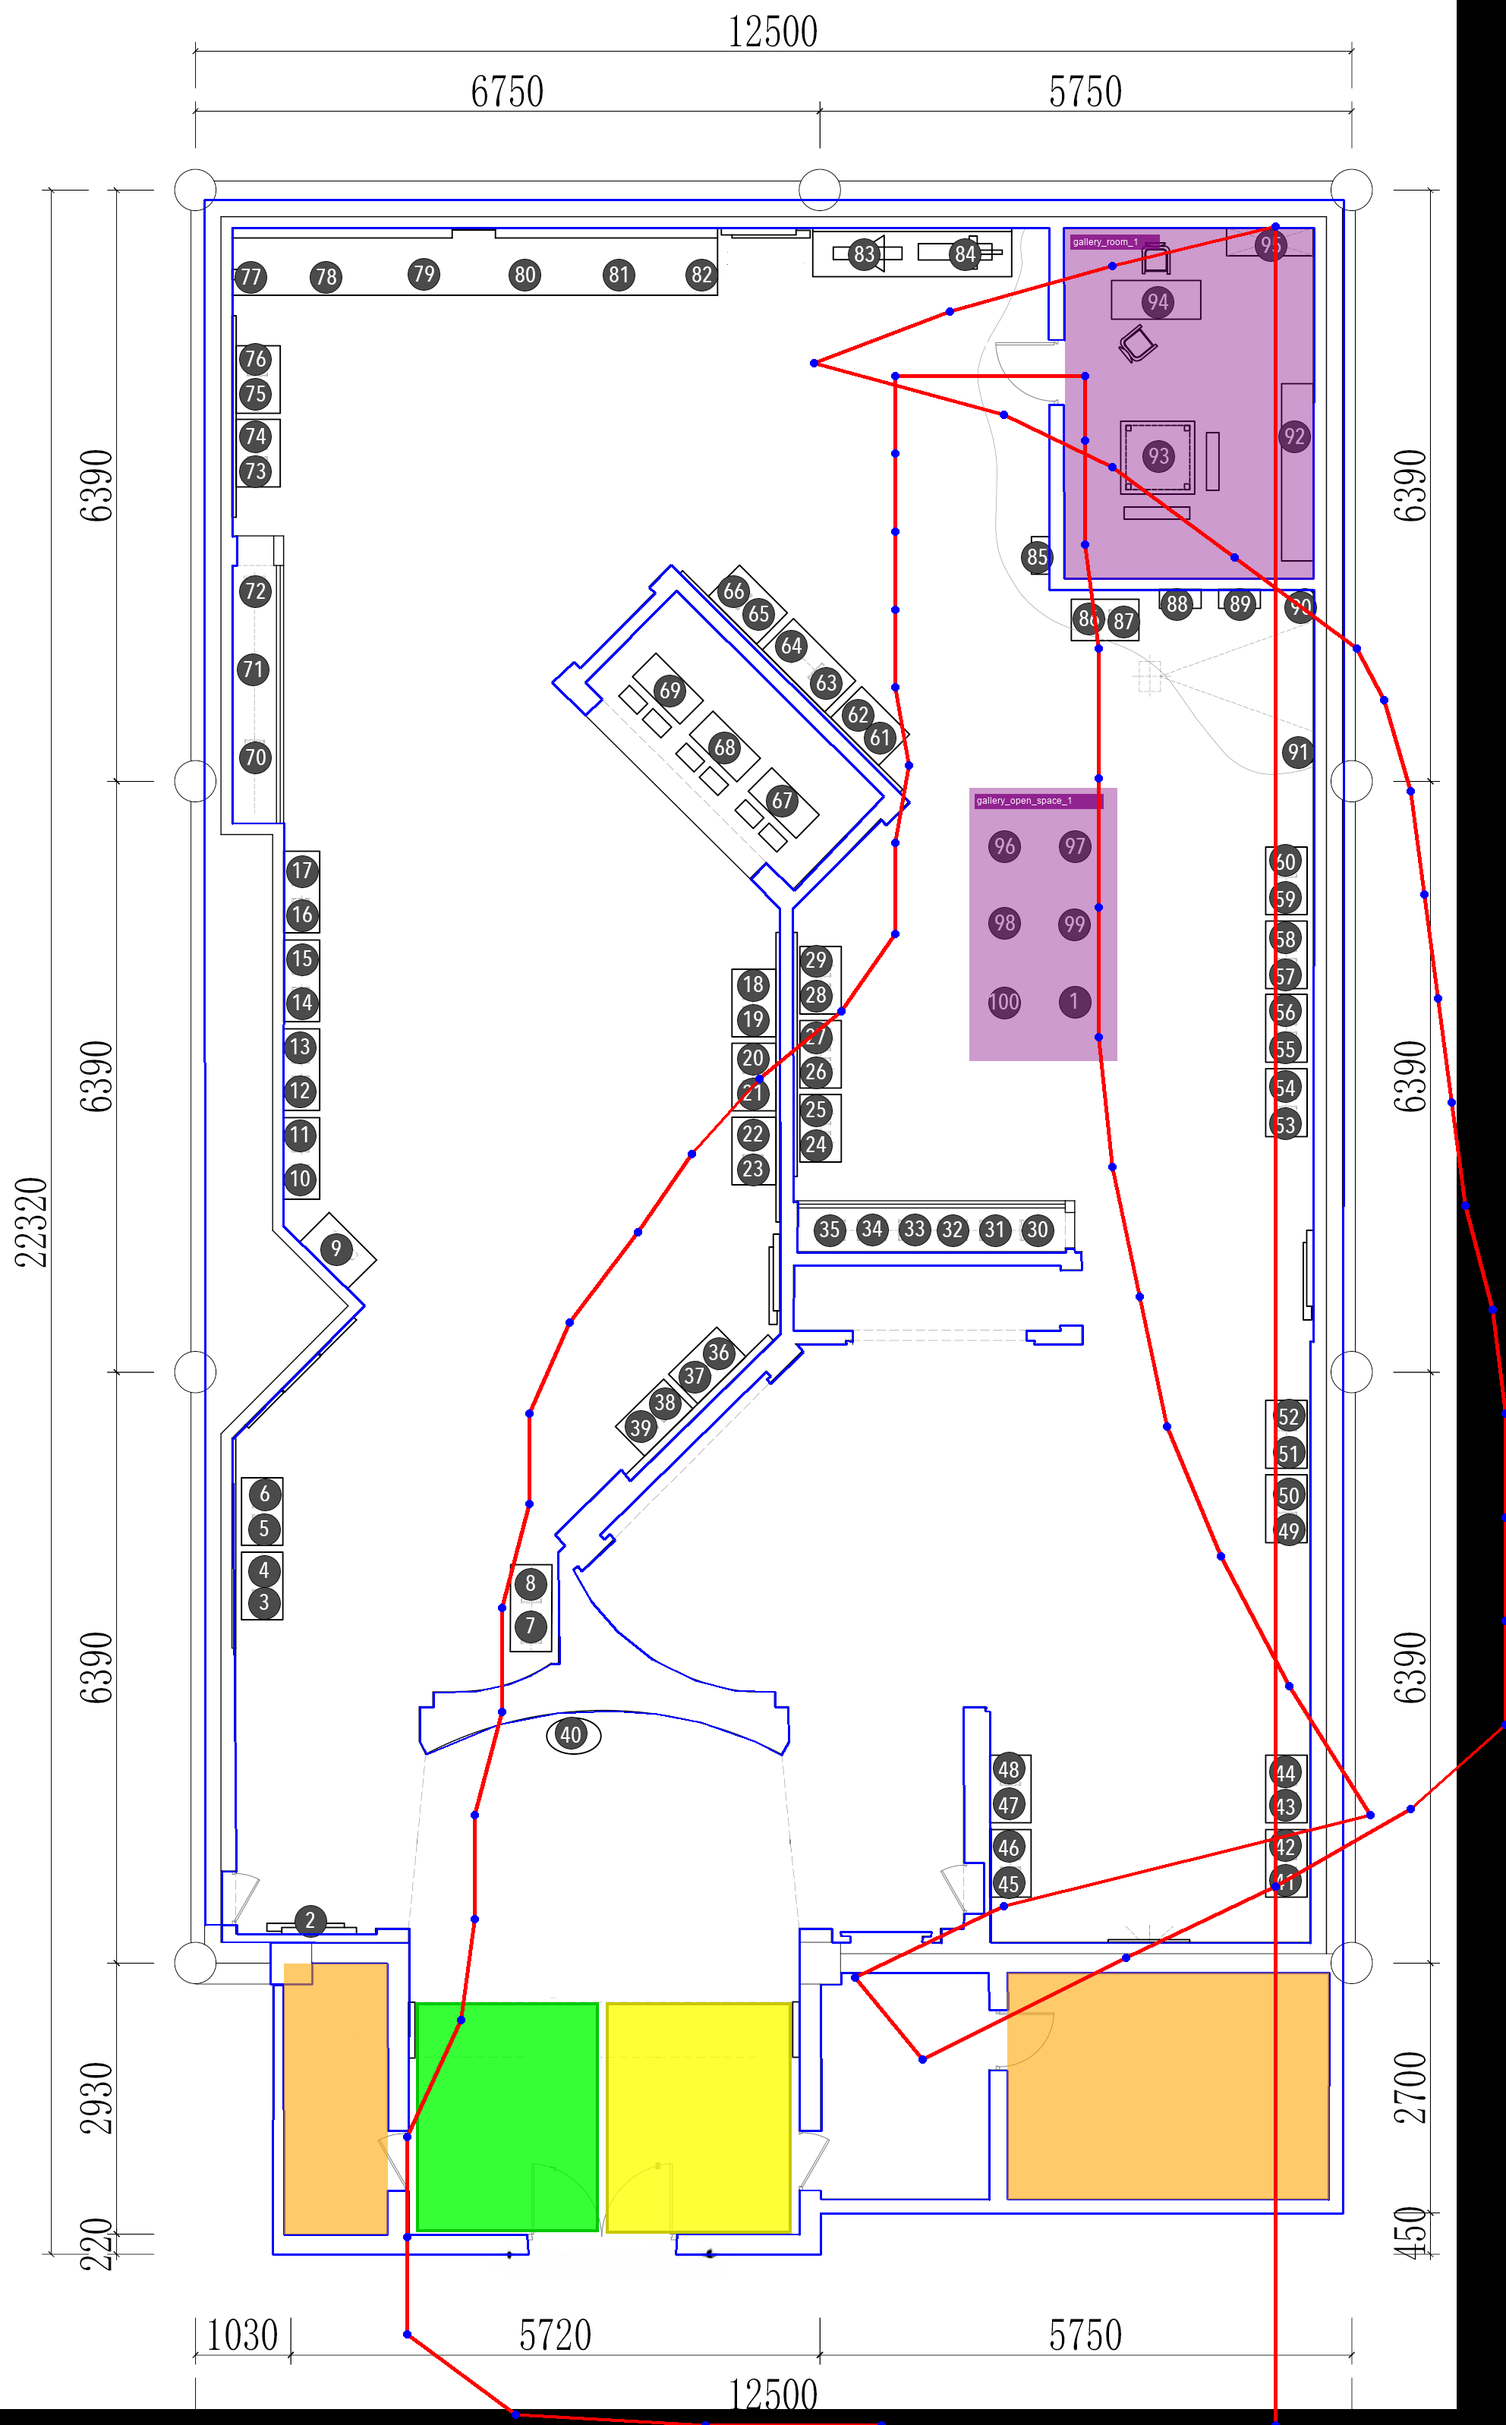
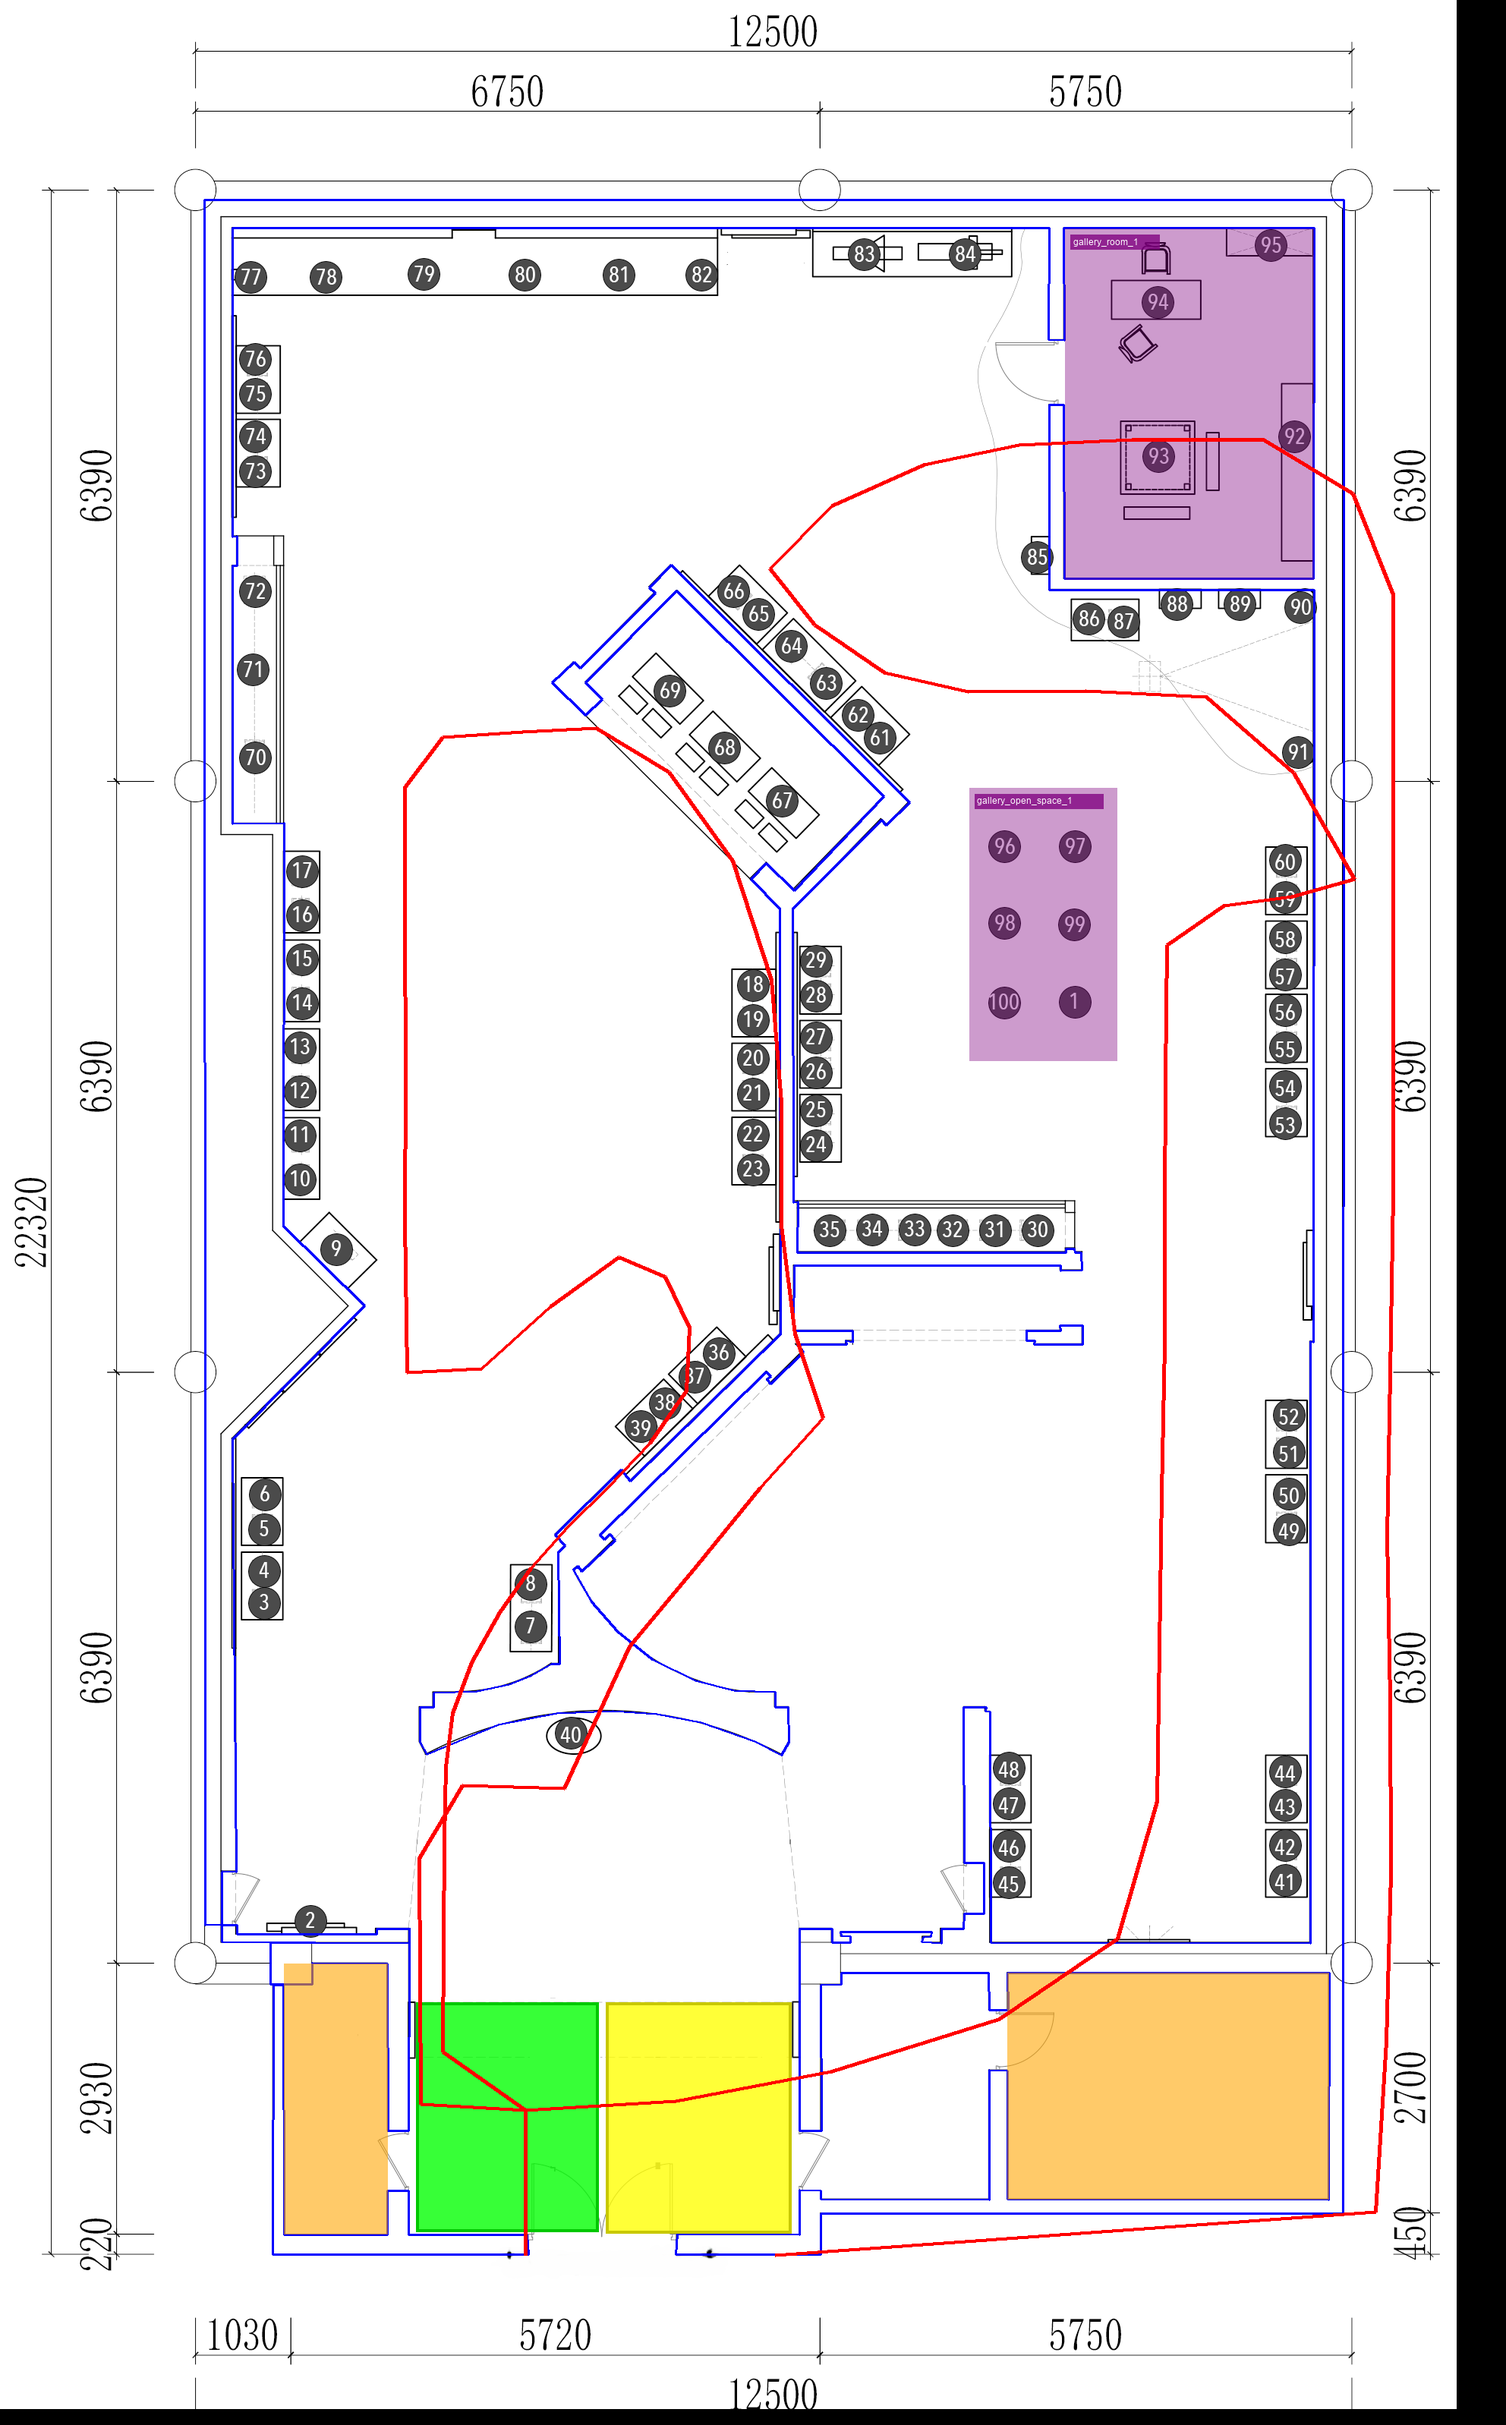
Prompt update

diff --git a/gpt_2_steps.py b/gpt_2_steps.py
@@ -21,7 +21,7 @@ with open(exhibits_json_path, "r", encoding="utf-8") as f:
 
 # -------- Image info --------
 image = Image.open(input_image_path)
-img_w, img_h = image.size
+img_width, img_height = image.size
 
 # Read image as base64
 with open(input_image_path, "rb") as f:
@@ -31,14 +31,22 @@ with open(input_image_path, "rb") as f:
 user_preference = "I only want to visit Roman Exhibits"
 
 # Build prompt for selecting exhibits
-system_prompt_selection = "You are a museum assistant. Choose exhibits matching the user preference from the list."
+system_prompt_selection = f"""
+    You are a museum assistant AI. Your task is to select which exhibits a visitor should see based on their preferences.
+
+        Here is the list of all exhibits in JSON format:
+        { exhibits_json }
+
+        Rules:
+        1. Only select exhibits that match the user preference.
+        2. Output ONLY a JSON array of exhibit_number.
+        3. Do not include any text, commentary, or formatting outside the JSON array.
+        4. The array should be a valid JSON list of integers, for example: [2, 5, 7]
+
+        Provide your response strictly in the format above.
+    """
 user_prompt_selection = f"""
 Select exhibits based on this user preference: {user_preference}
-
-Here is the exhibit data (JSON):
-{json.dumps(exhibits_json)}
-
-Output ONLY a JSON array of exhibit IDs that should be visited.
 """
 
 response_selection = client.responses.create(
@@ -67,11 +75,67 @@ print("Selected exhibit IDs:", selected_ids)
 filtered_exhibits = [e for e in exhibits_json if e["exhibit_number"] in selected_ids]
 
 # -------- STEP 2: Route Planning --------
-system_prompt_route = build_system_prompt(183, img_w, img_h)  # Same system prompt as before
-user_prompt_route = build_user_prompt(
-    f"Plan a path visiting ONLY these exhibits: {selected_ids}",
-    filtered_exhibits
-)
+system_prompt_route = f"""
+        You are a museum path planning assistant.
+
+        Your task is to generate an optimal navigation path through a museum layout image.
+
+        You MUST strictly follow all constraints.
+
+        ---
+
+        ### Spatial Constraints (MANDATORY)
+        - Do NOT pass through walls or restricted areas.
+        - Do NOT exit the museum boundaries except at the designated exit.
+        - Do NOT collide with exhibits (treat exhibits as obstacles unless visiting).
+        - Path must be continuous and physically plausible.
+        - Start inside the entrance (green bounding box).
+        - End inside the exit (yellow bounding box).
+
+        Key Notes:
+        - BLUE outlines repesent the walls.
+        - ORANGE bounding box represents restricted area.
+        - PURPLE boundig box represents gallary area.
+
+        ---
+
+        You MUST:
+        - Ignore all irrelevant exhibits.
+        - Visit only selected exhibits.
+
+        ---
+
+        ### Visit Definition
+        - A visit is valid if the path comes within { 183 } pixels of the exhibit's approx_location.
+
+        ---
+
+        ### Path Rules
+        - Optimize for shortest valid path.
+        - Avoid unnecessary detours.
+        - Visit exhibits in an efficient order.
+        - Strictly follow Spatial Constraints
+
+        ---
+
+        ### Coordinate Constraints (CRITICAL)
+        - Image width: { img_width } pixels
+        - Image height: { img_height } pixels
+        - ALL coordinates MUST satisfy:
+        - 0 ≤ x < { img_width }
+        - 0 ≤ y < { img_height }
+
+        ### Output Format (STRICT)
+        - Output ONLY a JSON array of (x, y) coordinates representing the path.
+        - Coordinates must be integers in pixel space.
+        - No explanations, no comments, no extra text.
+
+        Example:
+        [[10, 20], [30, 40], [50, 80]]
+    """
+user_prompt_route = f"""
+    Plan a path visiting ONLY these exhibits: {filtered_exhibits}"
+"""
 
 response_route = client.responses.create(
     model="gpt-5.4",
@@ -101,18 +165,15 @@ except json.JSONDecodeError:
 max_x = max(p[0] for p in route)
 max_y = max(p[1] for p in route)
 
-scale_x = img_w / max_x
-scale_y = img_h / max_y
+scale_x = img_width / max_x
+scale_y = img_height / max_y
 
 scaled_route = [(int(x * scale_x), int(y * scale_y)) for x, y in route]
 
 # -------- Draw route --------
 draw = ImageDraw.Draw(image)
-draw.line(scaled_route, fill="red", width=5)
+draw.line(route, fill="red", width=5)
 
-# Optional: draw points for debugging
-for x, y in scaled_route:
-    draw.ellipse((x-5, y-5, x+5, y+5), fill="blue")
 
 # -------- Save output image --------
 image.save(output_image_path)
